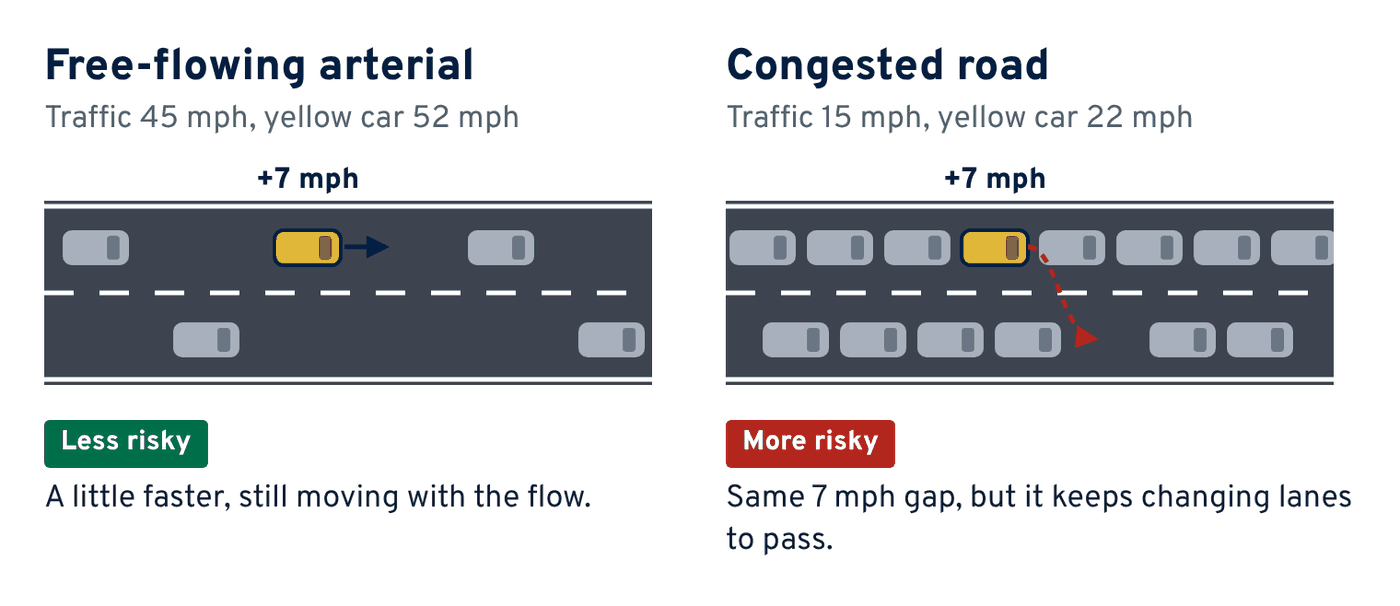
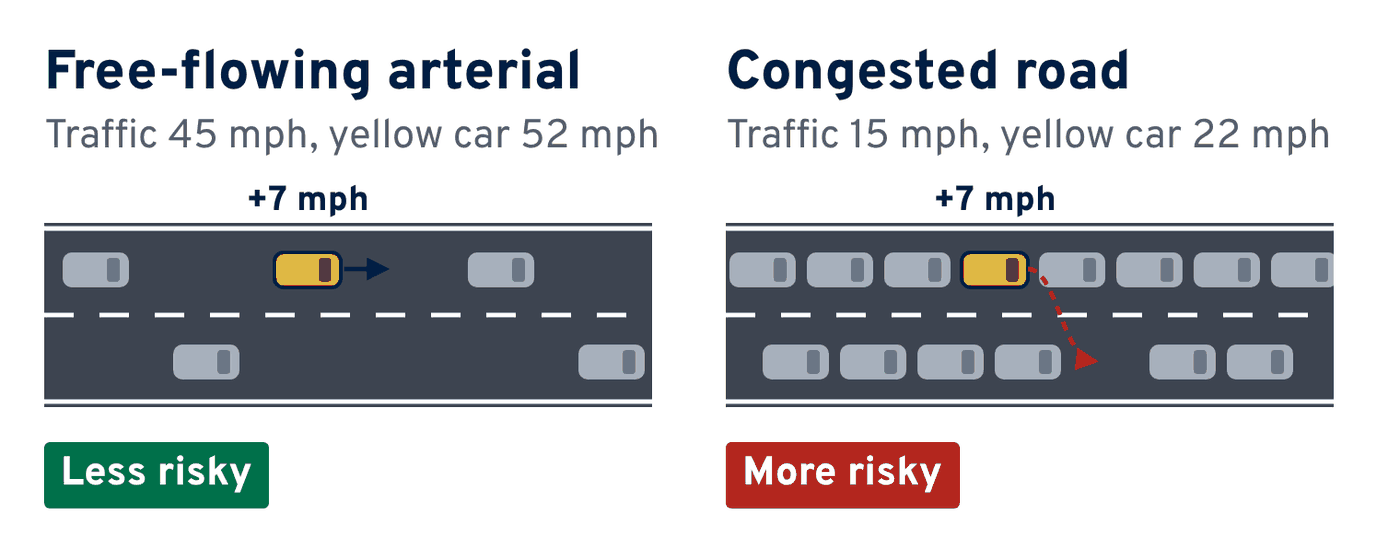
Add Atlas page for the UBI contextual driving risk paper (IET ITS 2019)
Claude-Session: https://claude.ai/code/session_01Tj2JJsqHjkiAbm2xygSAQ2

diff --git a/src/content/atlas/hu-ubi-contextual-risk-ietits-2019/en.md b/src/content/atlas/hu-ubi-contextual-risk-ietits-2019/en.md
@@ -1,0 +1,98 @@
+---
+tldr: >-
+  We scored 69,283 smartphone-recorded trips against the road and the live traffic around each car,
+  and found that drivers who keep their speed in step with traffic and drive smoothly report fewer
+  at-fault crashes: the kind of evidence usage-based car insurance needs to price risk fairly.
+hero:
+  image: /media/hu-ubi-contextual-risk-ietits-2019/same-gap-different-context.png
+  alt: >-
+    Two road diagrams side by side. Left, a free-flowing arterial where traffic averages 45 mph and a
+    yellow car drives 52 mph, labeled less risky. Right, a congested road where traffic averages 15 mph
+    and a yellow car drives 22 mph, weaving into the next lane, labeled more risky
+  caption: >-
+    Driving 7 mph faster than the cars around you means different things on different roads: on an
+    open arterial it is keeping up with the flow, in congestion it means constant lane changes to pass.
+    A plain GPS speed record treats these two drivers alike; our contextual measures do not. Diagram based on an example in the paper.
+affiliations:
+  - Missouri University of Science and Technology
+  - Metropia, Inc.
+  - University of North Texas
+  - University of Arizona
+author_affiliations: [[1], [2], [3], [4], [1]]
+abstract: |-
+  Traditional driving risk analysis reveals driving risk factors based on the correlation analysis at the aggregate level, and typically does not go down to the individual level due to the absence of personalized driving data. While some recent efforts applied the latest information and communications technology (ICT) for data collection and driving behavior evaluation, most researchers and practitioners currently rely solely on user GPS trajectories, without considering other critical risk factors in the surrounding environment that may also contribute to crash risk, i.e. the context-sensitive risk factors. A new approach that collects individualized driving behavior data from smartphone GPS module, combined with geographical network information and dynamic traffic conditions, is proposed to identify driving risk factors and evaluate driving behaviors in various contexts. The multi-source data reveals real world activity patterns as to when, where and how an individual driver performs, from which performance measurements on both the trip and driver level are defined to measure the risks in those patterns. Data is collected from a total of 69,283 trips from 255 users and numeric analysis is performed and summarized in this paper.
+key_numbers:
+  - { value: "69,283", label: "trips recorded by drivers' smartphones over one year" }
+  - { value: "255", label: "drivers in Tucson and Austin with both trip data and crash history" }
+  - { value: "2", label: "factors, pedal and speed, that sum up ten driver scores" }
+  - { value: "5", label: "groups of drivers with similar driving habits" }
+updated: 2026-10-27
+---
+
+## What problem does this research solve?
+
+**Usage-based insurance** (UBI), sometimes called pay-as-you-drive insurance, sets a driver's premium from how they actually drive rather than only from age, gender or ZIP code. To do that fairly, an insurer needs driving scores that really predict crashes.
+
+Most driving scores today are built from the car's own GPS or sensor trace: how fast it went, how hard it braked, how often it sped up suddenly. What these traces leave out is the **context**. A burst of hard braking might be a careless driver, or it might be stop-and-go traffic that every driver on that road is fighting through. A driver who goes 7 mph faster than everyone else is just keeping up on an open arterial, but on a jammed road the same 7 mph means weaving from lane to lane to get past other cars.
+
+Older crash research has the opposite gap. It finds risk factors such as age, alcohol or inexperience by comparing large groups of drivers, but it rarely has data on how each individual actually drives. We set out to measure each person's driving in context, and then check whether those measures line up with real crash histories.
+
+## What did we do?
+
+From January 2015 to January 2016, drivers using the Metropia navigation app recorded their trips: the phone's GPS logged position and speed every second. On the server, every GPS point was matched to the road link the car was on, with that link's road type and speed limit, and to the **average speed of traffic on that link** at that moment, updated every 5 minutes from a national traffic data provider. In total we collected **69,283 trips**.
+
+<figure>
+  <img src="/media/hu-ubi-contextual-risk-ietits-2019/data-fusion-pipeline.png" alt="Flow diagram. Three boxes, smartphone GPS, road network and traffic conditions, feed a step that matches each GPS point to its road link and traffic. That produces five measures: relative speed and speeding, marked context-aware, plus smoothness, hard braking and hard starts. These become trip scores, then a driver profile, which is compared with a crash history survey" loading="lazy" />
+  <figcaption>How three data sources become a driver profile. The two yellow measures are context-aware: they judge a driver's speed against the traffic and congestion on that road at that moment.</figcaption>
+</figure>
+
+We then asked frequent app users (at least 10 trips) about their crash history and background. **255 drivers in Tucson, Arizona, and Austin, Texas,** had both good GPS data and survey answers: 136 women and 119 men, aged from under 20 to over 65 (average 37), who drive about 10,800 miles a year. Most had a clean recent record: 221 reported no at-fault crash in the past three years, 30 reported one, and 4 reported more than one.
+
+<figure>
+  <img src="/media/hu-ubi-contextual-risk-ietits-2019/crash-history.png" alt="Bar chart of the number of drivers with no, one, or two or more crashes, in four groups: total crashes in the last 3 years, at-fault crashes in the last 3 years, total crashes in the last year and at-fault crashes in the last year. In every group the no-crash bar is far the tallest, between about 170 and 240 drivers" loading="lazy" />
+  <figcaption>Self-reported crash histories of the 255 drivers. Crashes are rare events, so most drivers report none; the study focuses on at-fault crashes in the past three years. Image: from the paper.</figcaption>
+</figure>
+
+## What is the key methodological contribution?
+
+The paper defines five driving measures that are calculated every second along a trip:
+
+- **Relative speed** (context-aware): how far the driver's speed is from the average speed of the other traffic on the same road at the same time. Being much faster *or* much slower than the flow both count as risky, because either one forces other drivers to brake, accelerate or change lanes. The score also weighs the gap by how fast traffic is moving and how congested the road is.
+- **Speeding** (context-aware): how far above the posted speed limit, adjusted for road type and congestion, since 10 mph over the limit carries a different risk on a freeway than on an arterial.
+- **Smoothness**: the share of time, while moving faster than 10 mph, that the car holds a steady speed without noticeable speeding up or slowing down.
+- **Hard braking** and **hard starts**: how often the car slows faster than about 12 ft/s² or speeds up faster than about 10 ft/s². These are rare: fewer than 10% of trips include even one.
+
+Each trip's score is the time-weighted average of these measures, ranked from 0 (worst) to 1 (best) against all trips. Each driver then gets **ten scores**: their average trip and their worst trip on each of the five measures. Looking at the worst trip, not just the average, captures drivers who are usually careful but occasionally very aggressive.
+
+Many of the ten scores overlap, so we used principal component analysis to find what they have in common. They boil down to **two factors**: a **pedal factor**, made up of hard braking and hard starts, and a **speed factor**, made up of relative speed, speeding and worst-trip smoothness.
+
+<figure>
+  <img src="/media/hu-ubi-contextual-risk-ietits-2019/pedal-and-speed-factors.png" alt="Table of ten driver scores against two factors. Hard braking and hard starts, for both the average and the worst trip, have dark cells between 0.76 and 0.89 under the pedal factor. Speeding, relative speed and worst-trip smoothness have dark cells between 0.54 and 0.82 under the speed factor. Average-trip smoothness is weak on both" loading="lazy" />
+  <figcaption>Ten driver scores collapse into two factors. Dark cells show which scores make up each factor: brake and gas pedal habits on the left, keeping pace with traffic and the speed limit on the right.</figcaption>
+</figure>
+
+Using these two factors, a clustering method sorted the drivers into **five groups**. The largest group (88 drivers) is good on the pedals but less steady on speed; 51 drivers are good on both; 62 often speed or drift away from the traffic speed while using the pedals gently; 30 control speed well but brake and accelerate hard; and 24 do poorly on both.
+
+<figure>
+  <img src="/media/hu-ubi-contextual-risk-ietits-2019/driver-groups.png" alt="Scatter plot of drivers by pedal score on the horizontal axis and speed score on the vertical axis, with five marker shapes for groups G1 to G5. G1 sits at upper right, G2 in the middle right, G3 at lower right, G4 at upper left and G5 at lower left" loading="lazy" />
+  <figcaption>Each mark is one driver, placed by pedal score (across) and speed score (up); higher is better on both. G1 (upper right) drives well on both; G3 (lower right) uses the pedals gently but struggles with speed; G5 (lower left) is weak on both. Image: from the paper.</figcaption>
+</figure>
+
+## What are the key findings?
+
+We modeled the number of at-fault crashes each driver reported over the past three years with negative binomial regression, a standard model for crash counts, controlling for age and annual mileage. Three versions of the model used the ten detailed scores, the two factors, or the five groups.
+
+- **Driving habits measured today are linked with past crashes.** Drivers with smoother acceleration on average, and drivers whose *worst* trip still kept close to the traffic speed, reported significantly fewer at-fault crashes.
+- **Speed control matters more than pedal use.** The speed factor was linked with fewer at-fault crashes, while the pedal factor was not. Drivers in the two groups with weaker speed control (G2 and G3) reported more at-fault crashes than the group that drives well on both counts (G1). These group and factor results are weaker statistically (10% level) but point the same way.
+- **Context changes the meaning of the numbers.** The measures that best predicted crashes include relative speed, which only exists when each GPS point is compared with the traffic around it.
+- **Exposure still counts.** In every model, people who drive more than 15,000 miles a year reported more at-fault crashes. Drivers aged 35 to 39 reported fewer.
+
+These results rest on self-reported crash histories, and they assume that how someone drives today reflects how they drove over the past few years.
+
+## What can this be used for?
+
+- **Insurers building usage-based insurance programs:** context-aware driving scores separate risky drivers from drivers who simply commute on congested roads, which makes premiums fairer.
+- **Lower-cost data collection:** a smartphone app costs far less than an on-board telematics device and can reach many more drivers, which could help usage-based insurance spread more widely.
+- **Driver feedback and safety programs:** the scores show which habit, such as keeping pace with traffic, matters most, so feedback can focus on it.
+
+This work was supported by the Federal Highway Administration's Pay-As-You-Drive-And-You-Save (PAYDAYS) Insurance Actuarial Study.

diff --git a/src/content/atlas/hu-ubi-contextual-risk-ietits-2019/zh.md b/src/content/atlas/hu-ubi-contextual-risk-ietits-2019/zh.md
@@ -1,0 +1,87 @@
+---
+title: 推进基于使用量的车险（UBI）：一种情境化的驾驶风险建模与分析方法
+tldr: >-
+  我们把69,283次由手机记录的行程放回每辆车所在的道路和实时交通中打分，发现车速能与周围车流保持一致、驾驶平稳的司机，
+  自报的有责事故更少。这正是基于使用量的车险（UBI）公平定价所需要的证据。
+hero:
+  alt: >-
+    两幅并排的道路示意图。左图是畅通的主干道，车流平均时速45英里，黄色车辆时速52英里，标注“风险较低”；
+    右图是拥堵道路，车流平均时速15英里，黄色车辆时速22英里并向旁边车道穿插，标注“风险较高”
+  caption: >-
+    比周围车辆快7英里/小时，在不同道路上意味着完全不同的风险：在畅通的主干道上只是跟上车流，在拥堵路段则意味着不断变道超车。
+    只看GPS车速记录，这两位司机没有区别；而我们的情境化指标能把两者区分开。示意图根据论文中的例子绘制。
+key_numbers:
+  - { value: "69,283", label: "次行程，由司机的手机在一年内记录" }
+  - { value: "255", label: "名图森和奥斯汀的司机，同时拥有行程数据和事故历史" }
+  - { value: "2", label: "个因子（踏板与车速）概括了十项司机得分" }
+  - { value: "5", label: "类驾驶习惯相近的司机群体" }
+updated: 2026-10-27
+---
+
+## 这项研究解决了什么问题？
+
+**基于使用量的车险**（Usage-Based Insurance, UBI），也叫“按驾驶付费”（pay-as-you-drive）车险，依据司机实际怎么开车来定保费，而不只是看年龄、性别或邮编。要做到公平，保险公司需要真正能预测事故的驾驶评分。
+
+目前大多数驾驶评分只依据车辆自身的GPS或传感器轨迹：开多快、刹车多猛、多常急加速。这些轨迹缺少的是**情境**。一连串急刹车可能说明司机粗心，也可能只是这条路上人人都在经历的走走停停。比别人快7英里/小时，在畅通的主干道上只是跟上车流；而在拥堵道路上，同样的7英里/小时意味着不断变道、穿插超车。
+
+传统的事故研究则有相反的短板：它通过比较大群体找出年龄、饮酒、驾龄等风险因素，却很少掌握每个人实际怎么开车的数据。我们的目标是在情境中衡量每个人的驾驶行为，再检验这些指标是否与真实的事故历史相符。
+
+## 我们做了什么？
+
+2015年1月至2016年1月，使用Metropia导航应用的司机记录了自己的行程：手机GPS每秒记录一次位置和车速。在服务器上，每个GPS点都被匹配到车辆所在的路段，带上该路段的道路类型和限速，以及当时**该路段的车流平均速度**（来自全国性交通数据供应商，每5分钟更新一次）。我们一共收集了**69,283次行程**。
+
+<figure>
+  <img src="/media/hu-ubi-contextual-risk-ietits-2019/data-fusion-pipeline.png" alt="流程图。手机GPS、路网和交通状况三个数据源汇入一步：把每个GPS点匹配到所在路段和当时的交通。由此得到五项指标：标为情境化的相对速度和超速，以及平稳度、急刹车和急起步。它们先汇总为行程得分，再形成司机画像，并与事故历史调查对比" loading="lazy" />
+  <figcaption>三个数据源如何变成一份司机画像。两项黄色指标是情境化的：它们把司机的车速放在当时这条路的车流和拥堵状况中评判。</figcaption>
+</figure>
+
+随后，我们向经常使用该应用的用户（至少完成10次行程）发放问卷，了解他们的事故历史和背景信息。**255名来自亚利桑那州图森和得克萨斯州奥斯汀的司机**同时拥有质量良好的GPS数据和问卷回答：女性136人、男性119人，年龄从不到20岁到65岁以上（平均37岁），每年驾驶约10,800英里。大多数人近期记录良好：过去三年中，221人没有有责事故，30人有一次，4人有一次以上。
+
+<figure>
+  <img src="/media/hu-ubi-contextual-risk-ietits-2019/crash-history.png" alt="柱状图，显示没有事故、一次事故、两次及以上事故的司机人数，分四组：过去3年全部事故、过去3年有责事故、过去1年全部事故、过去1年有责事故。每组中“没有事故”的柱子都最高，约170至240人" loading="lazy" />
+  <figcaption>255名司机自报的事故历史。事故是小概率事件，大多数司机没有发生过；本研究重点分析过去三年的有责事故。图片来源：论文。</figcaption>
+</figure>
+
+## 关键的方法贡献是什么？
+
+论文定义了五项驾驶指标，沿着行程逐秒计算：
+
+- **相对速度**（情境化）：司机车速与同一时间、同一路段上其他车辆平均车速的差距。明显快于或明显慢于车流都算有风险，因为两者都会迫使其他司机刹车、加速或变道。该得分还会根据车流快慢和道路拥堵程度对差距加权。
+- **超速**（情境化）：超出限速的幅度，并按道路类型和拥堵程度调整，因为在高速公路上超速10英里/小时与在主干道上超速10英里/小时的风险并不相同。
+- **平稳度**：车速超过10英里/小时时，车辆保持匀速、没有明显加减速的时间占比。
+- **急刹车**和**急起步**：减速超过约12英尺/秒²、或加速超过约10英尺/秒²的频率。这类事件很少见：不到10%的行程出现过一次。
+
+每次行程的得分是这些指标按时间加权的平均值，再与全部行程比较，换算为0（最差）到1（最好）。每位司机由此得到**十项得分**：五项指标各自的平均行程得分和最差行程得分。看最差的一次行程而不只看平均，能抓住那些平时谨慎、偶尔却非常激进的司机。
+
+十项得分彼此有不少重叠，我们用主成分分析（PCA）找出它们的共性。结果归结为**两个因子**：由急刹车和急起步构成的**踏板因子**，以及由相对速度、超速和最差行程平稳度构成的**车速因子**。
+
+<figure>
+  <img src="/media/hu-ubi-contextual-risk-ietits-2019/pedal-and-speed-factors.png" alt="表格：十项司机得分与两个因子的对应关系。急刹车和急起步（平均行程与最差行程）在踏板因子下是0.76至0.89的深色格子；超速、相对速度和最差行程平稳度在车速因子下是0.54至0.82的深色格子；平均行程平稳度在两个因子上都较弱" loading="lazy" />
+  <figcaption>十项司机得分归结为两个因子。深色格子表示每个因子由哪些得分构成：左边是刹车和油门踏板的使用习惯，右边是能否跟上车流、遵守限速。</figcaption>
+</figure>
+
+基于这两个因子，聚类方法把司机分成**五类**。人数最多的一类（88人）踏板控制好、但车速不够稳定；51人两方面都好；62人常超速或偏离车流速度，但踏板使用温和；30人车速控制好、但刹车和加速较猛；24人两方面都差。
+
+<figure>
+  <img src="/media/hu-ubi-contextual-risk-ietits-2019/driver-groups.png" alt="散点图，横轴为踏板得分，纵轴为车速得分，用五种符号表示G1至G5五类司机。G1在右上，G2在右侧中部，G3在右下，G4在左上，G5在左下" loading="lazy" />
+  <figcaption>每个符号代表一位司机，横向为踏板得分，纵向为车速得分，两者都是越高越好。G1（右上）两方面都好；G3（右下）踏板温和但车速控制差；G5（左下）两方面都弱。图片来源：论文。</figcaption>
+</figure>
+
+## 主要发现是什么？
+
+我们用负二项回归（事故次数分析中的常用模型）对每位司机自报的过去三年有责事故次数建模，并控制年龄和年行驶里程。模型分三个版本，分别使用十项详细得分、两个因子和五类群体。
+
+- **今天测得的驾驶习惯与过去的事故相关。** 平均加减速更平稳的司机，以及即使在“最差”行程中也能贴近车流速度的司机，自报的有责事故显著更少。
+- **车速控制比踏板使用更重要。** 车速因子与更少的有责事故相关，踏板因子则不显著。车速控制较弱的两类司机（G2和G3）比两方面都好的G1报告了更多有责事故。因子和群体层面的结果统计显著性较弱（10%水平），但方向一致。
+- **情境改变了数字的含义。** 最能预测事故的指标之一是相对速度，而这个指标只有把每个GPS点与周围车流对比才能得到。
+- **暴露量仍然重要。** 在所有模型中，年行驶超过15,000英里的司机报告的有责事故更多；35至39岁的司机则更少。
+
+这些结果基于司机自报的事故历史，并假设一个人现在的驾驶方式能代表他过去几年的驾驶方式。
+
+## 这项研究可以用来做什么？
+
+- **开发UBI产品的保险公司：** 情境化的驾驶评分能把真正高风险的司机与只是每天在拥堵路上通勤的司机区分开，让保费更公平。
+- **更低成本的数据采集：** 手机应用比车载远程信息处理（telematics）设备便宜得多，覆盖的司机也多得多，有助于UBI更广泛地推广。
+- **司机反馈与安全项目：** 评分能指出哪种习惯（例如跟上车流速度）最重要，反馈就可以有的放矢。
+
+本研究由美国联邦公路管理局（FHWA）“按驾驶付费并节省”（PAYDAYS）保险精算研究项目资助。
